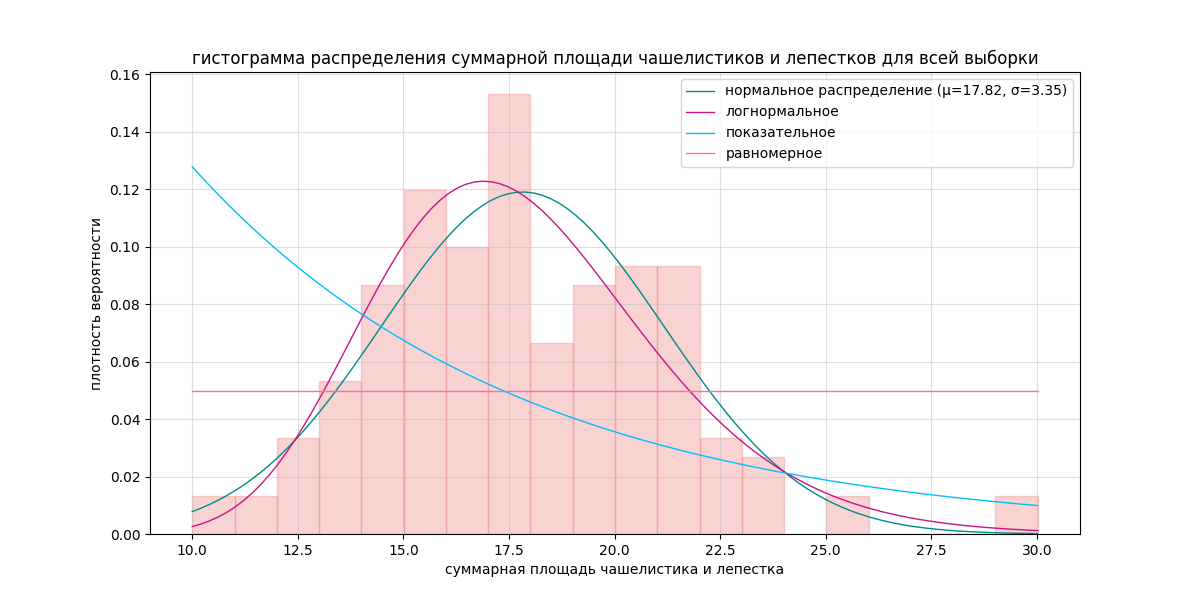
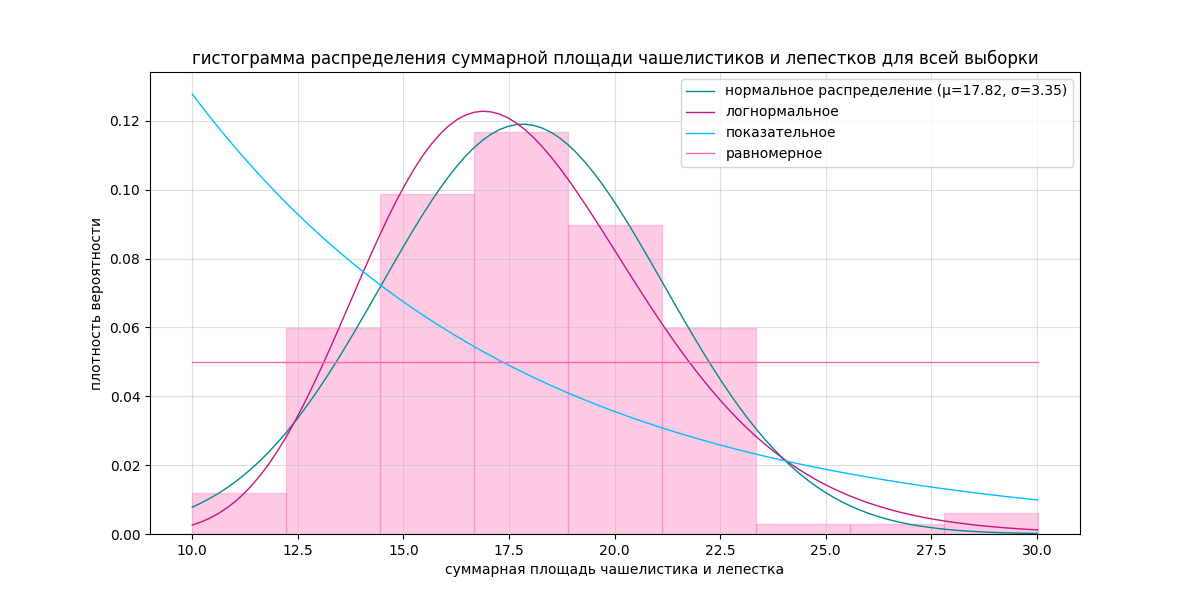
никита ваще прав там другое количество интервалов

diff --git a/main.py b/main.py
@@ -11,6 +11,7 @@
  box-plot суммарной площади чашелистика и лепестка для всей совокупности и каждого вида.
 """
 import numpy as np
+import math
 import matplotlib.pyplot as plt
 from scipy.stats import norm, lognorm, gamma, expon, uniform
 
@@ -125,10 +126,12 @@ def custom_boxplot(data, title, specie):
 def draw_histogram(iris_areas, specie=''):
     plt.figure(figsize=(12, 6))
 
+    print(list(sorted(iris_areas)))
+
     gist_color = 'hotpink'
     gist_title = "гистограмма распределения суммарной площади чашелистиков и лепестков"
 
-    plt.hist(iris_areas, bins=20, color=gist_color, alpha=0.35, edgecolor=gist_color, density=True)
+    plt.hist(iris_areas, bins=(1 + math.ceil(math.log(len(iris_areas), 2))), color=gist_color, alpha=0.35, edgecolor=gist_color, density=True)
 
     mu, sigma = np.mean(iris_areas), np.std(iris_areas)
     shape_lognorm, loc_lognorm, scale_lognorm = lognorm.fit(iris_areas, floc=0)
@@ -136,7 +139,6 @@ def draw_histogram(iris_areas, specie=''):
     loc_exp, scale_exp = expon.fit(iris_areas)
     loc_uniform, scale_uniform = uniform.fit(iris_areas)
 
-    # Создание оси X
     x = np.linspace(min(iris_areas), max(iris_areas), 100)
 
     plt.plot(x, norm.pdf(x, mu, sigma), linewidth=1, color='darkcyan', label=f'нормальное распределение (μ={mu:.2f}, σ={sigma:.2f})')
